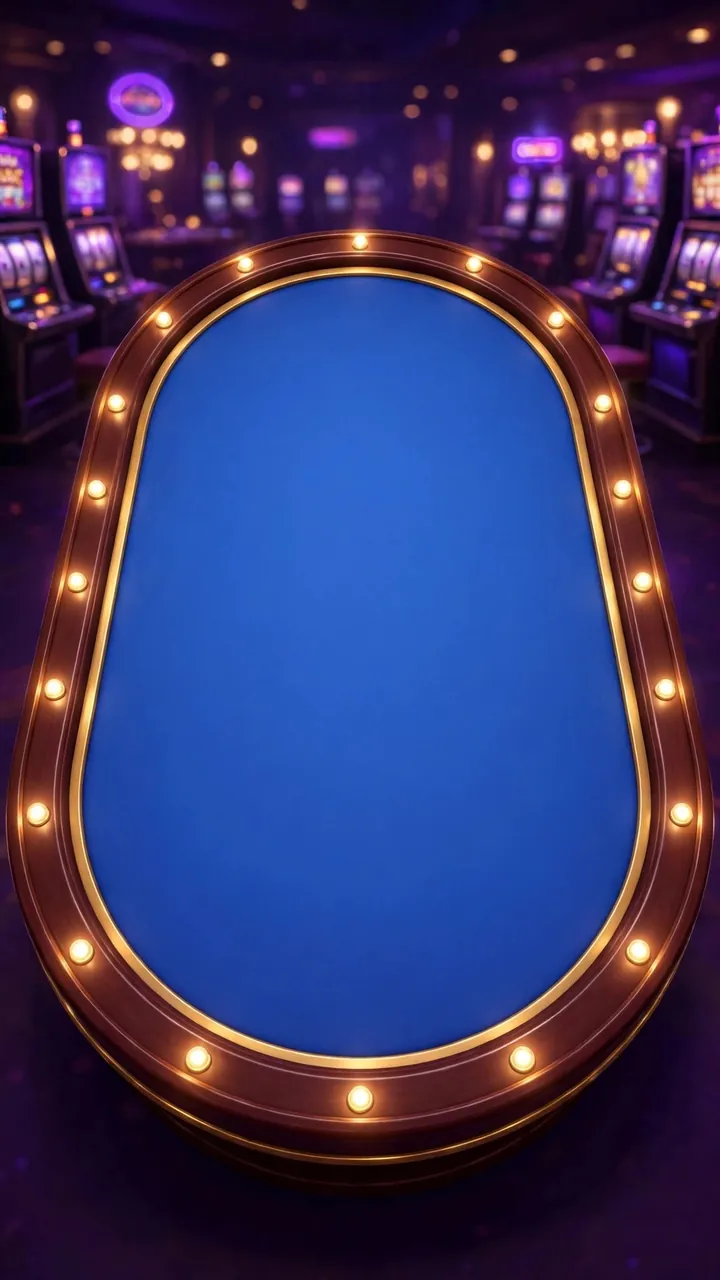
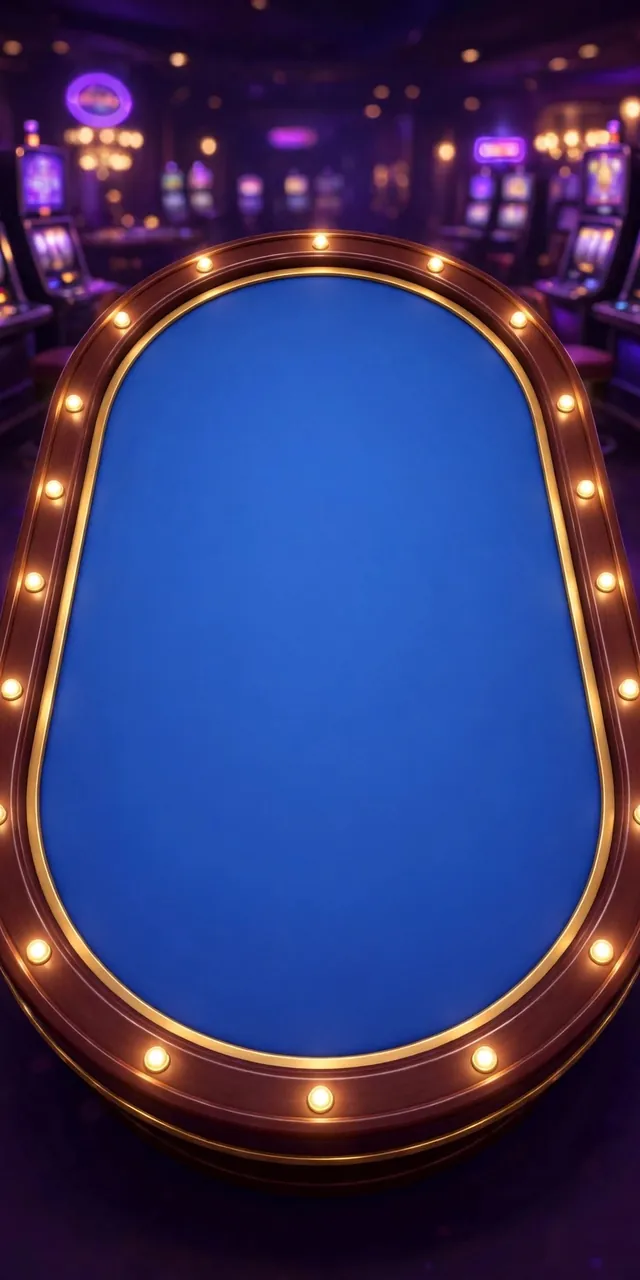
Add files via upload

diff --git a/casino.js b/casino.js
@@ -2701,3 +2701,53 @@ window.L2={chipURL,betChip,betChipURL,syncChip,paintIcons,repaintAll};
   });
   window.DD={say,pose,result};
 })();
+
+// ================= v3.1 · sonidos mágicos (turno, ganar y stickers comparten la misma "sala" con eco y destellos) =================
+(function(){
+  let BUS=null;
+  function bus(){ if(!actx) return null; if(BUS&&BUS.ac===actx) return BUS;
+    const ac=actx, len=Math.floor(ac.sampleRate*2.4), ir=ac.createBuffer(2,len,ac.sampleRate);
+    for(let c=0;c<2;c++){ const d=ir.getChannelData(c); for(let i=0;i<len;i++) d[i]=(Math.random()*2-1)*Math.pow(1-i/len,3.4); }
+    const inp=ac.createGain(), dry=ac.createGain(), wet=ac.createGain(), cv=ac.createConvolver(), lp=ac.createBiquadFilter();
+    cv.buffer=ir; dry.gain.value=0.85; wet.gain.value=0.42; lp.type="lowpass"; lp.frequency.value=7000;
+    inp.connect(lp); lp.connect(dry); dry.connect(ac.destination); lp.connect(cv); cv.connect(wet); wet.connect(ac.destination);
+    BUS={ac,inp}; return BUS; }
+  const on=()=>lsGet("mc-bell")!=="off"&&actx;
+  // celesta: tono puro + armónicos brillantes que se apagan rápido (suena a caja de música)
+  function cel(f,at,dur,v,out){ [[1,v],[2,v*.16],[4.01,v*.12],[6.02,v*.05]].forEach(([m,g0],k)=>{ const o=actx.createOscillator(), g=actx.createGain(); o.type="sine"; o.frequency.value=f*m;
+      const d=dur/(1+k*1.4); g.gain.setValueAtTime(0.0001,at); g.gain.exponentialRampToValueAtTime(g0,at+0.005); g.gain.exponentialRampToValueAtTime(0.0001,at+d);
+      o.connect(g); g.connect(out); o.start(at); o.stop(at+d+0.05); }); }
+  // destellos: pings agudos al azar, como polvo de hada
+  function sparkle(at,n,span,vol,out){ for(let i=0;i<n;i++){ const s=at+Math.random()*span, f=3000+Math.random()*4200, o=actx.createOscillator(), g=actx.createGain();
+      o.type="sine"; o.frequency.value=f; g.gain.setValueAtTime(0.0001,s); g.gain.exponentialRampToValueAtTime(vol*(0.5+Math.random()*0.5),s+0.003); g.gain.exponentialRampToValueAtTime(0.0001,s+0.16);
+      o.connect(g); g.connect(out); o.start(s); o.stop(s+0.2); } }
+  // "fush" mágico: aire filtrado que sube
+  function whoosh(at,dur,vol,out){ const n=Math.ceil(actx.sampleRate*dur), b=actx.createBuffer(1,n,actx.sampleRate), d=b.getChannelData(0); for(let i=0;i<n;i++) d[i]=Math.random()*2-1;
+    const s=actx.createBufferSource(); s.buffer=b; const f=actx.createBiquadFilter(); f.type="bandpass"; f.Q.value=2.2; f.frequency.setValueAtTime(700,at); f.frequency.exponentialRampToValueAtTime(6000,at+dur);
+    const g=actx.createGain(); g.gain.setValueAtTime(0.0001,at); g.gain.exponentialRampToValueAtTime(vol,at+dur*0.6); g.gain.exponentialRampToValueAtTime(0.0001,at+dur);
+    s.connect(f); f.connect(g); g.connect(out); s.start(at); s.stop(at+dur+0.02); }
+
+  // te toca: arpa mágica que sube + destellos
+  ding=function(kind){ if(!on()) return; try{ const B=bus(), t=actx.currentTime+0.02;
+    if(kind==="turn"){ [659.3,784,880,1046.5,1318.5,1568].forEach((f,i)=>cel(f,t+i*0.055,1.1,0.17,B.inp)); whoosh(t,0.35,0.05,B.inp); sparkle(t+0.25,6,0.4,0.035,B.inp); }
+    else { cel(1046.5,t,0.8,0.13,B.inp); cel(1568,t+0.11,0.9,0.11,B.inp); sparkle(t+0.1,3,0.25,0.025,B.inp); }
+  }catch(e){} };
+
+  // ganar: hechizo que sube, acorde brillante y lluvia de monedas
+  coins=function(amount){ if(!on()) return; try{ const B=bus(), t=actx.currentTime+0.02, big=amount>=5000;
+    whoosh(t,0.4,0.06,B.inp);
+    const run=big?[523.3,659.3,784,1046.5,1318.5,1568,2093]:[523.3,659.3,784,1046.5,1318.5];
+    run.forEach((f,i)=>cel(f,t+0.05+i*0.06,0.9,0.16,B.inp));
+    const end=t+0.08+run.length*0.06;
+    [1046.5,1318.5,1568,2093].forEach(f=>cel(f,end,big?2.2:1.5,0.09,B.inp));
+    sparkle(end-0.05,big?16:9,big?1.3:0.8,0.04,B.inp);
+    for(let i=0;i<(big?8:4);i++){ const at=end+0.05+i*0.07+Math.random()*0.03; cel(3520+Math.random()*900,at,0.18,0.03,B.inp); }   // monedas
+  }catch(e){} };
+
+  // stickers: el mismo sonido de cada uno, pero sale con un "fush" de magia y por la misma sala con eco
+  reactSound=function(r){ if(!on()) return; try{ const B=bus(); whoosh(actx.currentTime+0.01,0.22,0.045,B.inp); sparkle(actx.currentTime+0.05,3,0.2,0.02,B.inp);
+      if(r.k==="casino"){ coins(5000); return; } reactSfx(actx,r.k,B.inp); }catch(e){} };
+
+  // stickers: precargar y sin filtros apilados (en iPhone a veces no se pintaba la imagen)
+  ["r-jaja.png","r-ctm.png","r-dealer.png","r-faah.png","r-ride.png"].forEach(s=>{ const i=new Image(); i.src=s; if(i.decode) i.decode().catch(()=>{}); });
+})();

diff --git a/index.html b/index.html
@@ -581,11 +581,19 @@ body.l2on::before{background:linear-gradient(rgba(11,4,20,.05),rgba(11,4,20,.45)
 .esccoach{border-color:rgba(201,149,58,.6);background:rgba(20,8,36,.6)}
 @media (prefers-reduced-motion:reduce){.v3dd,.seat.turn,#slot2 .sl-frame::before{animation:none}}
 
-/* mesas 3D (fondo pintado: verde BJ/póker, azul baccarat, roja ruleta) */
-#mesa:not([hidden])::before{content:"";position:fixed;top:0;bottom:0;left:50%;width:min(600px,100%);transform:translateX(-50%);z-index:-1;pointer-events:none;
- background:linear-gradient(180deg,#0b0414 0,rgba(11,4,20,.9) 120px,rgba(11,4,20,.35) 230px,transparent 300px),url(mesa-verde.webp) center var(--tblY,165px)/auto calc(100% - 40px) no-repeat,linear-gradient(180deg,#0b0414,#1a0a2e 40%,#120620)}
-#mesa[data-g="pk"]:not([hidden])::before{background-image:linear-gradient(180deg,#0b0414 0,rgba(11,4,20,.9) 120px,rgba(11,4,20,.35) 230px,transparent 300px),url(mesa-azul.webp),linear-gradient(180deg,#0b0414,#1a0a2e 40%,#120620)}
-#mesa[data-g="rul"]:not([hidden])::before{background-image:linear-gradient(180deg,#0b0414 0,rgba(11,4,20,.9) 120px,rgba(11,4,20,.35) 230px,transparent 300px),url(mesa-roja.webp),linear-gradient(180deg,#0b0414,#1a0a2e 40%,#120620)}
+/* mesas 3D: la mesa pintada va pegada al juego y se mueve con las cartas.
+   border-image: la parte de arriba y la de abajo de la mesa no se deforman; sólo el tramo del medio se alarga si hay más contenido */
+html,body{overflow-x:clip}
+#mesa #game{position:relative}
+#mesa #game::before{content:"";position:absolute;z-index:-1;pointer-events:none;left:50%;width:min(100vw,600px);margin-left:calc(min(100vw,600px) / -2);box-sizing:border-box;
+ top:calc(-60px - min(100vw,600px) * .353);bottom:calc(42px - min(100vw,600px) * .594);
+ border-style:solid;border-color:transparent;border-width:calc(min(100vw,600px) * .75) 0 calc(min(100vw,600px) * .594) 0;
+ border-image:url(mesa-verde.webp) 480 0 380 0 fill stretch;
+ -webkit-mask-image:linear-gradient(180deg,transparent 0,#000 110px);mask-image:linear-gradient(180deg,transparent 0,#000 110px)}
+#mesa[data-g="pk"] #game::before{border-image-source:url(mesa-azul.webp)}
+#mesa[data-g="rul"] #game::before{border-image-source:url(mesa-roja.webp)}
+.rbub .e{filter:none!important;transform:translateZ(0)}
+.rbub .rimg{filter:drop-shadow(0 3px 5px rgba(0,0,0,.55))!important}
 #mesa .felt,#mesa[data-g] .felt{background:transparent!important;box-shadow:none!important;border:0!important;margin:0 clamp(18px,9vw,60px)}
 
 /* lobby: arreglos */

diff --git a/sw.js b/sw.js
@@ -1,4 +1,4 @@
-const CACHE="dd4-1.1.1";   // app nueva (Don Dado); vive junto a la versión anterior
+const CACHE="dd4-1.2.0";   // app nueva (Don Dado); vive junto a la versión anterior
 const FILES=["./", "index.html", "casino.js", "adapter.js", "config.js", "manifest.webmanifest", "icon-180.png", "icon-192.png", "icon-512.png", "firebase-app-compat.js", "firebase-auth-compat.js", "firebase-firestore-compat.js", "push.js", "r-jaja.png", "r-ctm.png", "r-faah.png", "r-dealer.png", "r-ride.png", "fondo.jpg", "emblemas.png", "dd-normal.webp","mesa-verde.webp","mesa-azul.webp","mesa-roja.webp", "dd-festeja.webp", "dd-shrug.webp", "dd-guino.webp", "dd-maestro.webp", "dd-senala.webp"];
 self.addEventListener("install",e=>{ e.waitUntil(caches.open(CACHE).then(c=>c.addAll(FILES)).then(()=>self.skipWaiting())); });
 self.addEventListener("activate",e=>{ e.waitUntil(caches.keys().then(k=>Promise.all(k.filter(x=>x.startsWith("dd4-")&&x!==CACHE&&!/-fonts$/.test(x)).map(x=>caches.delete(x)))).then(()=>self.clients.claim())); });
